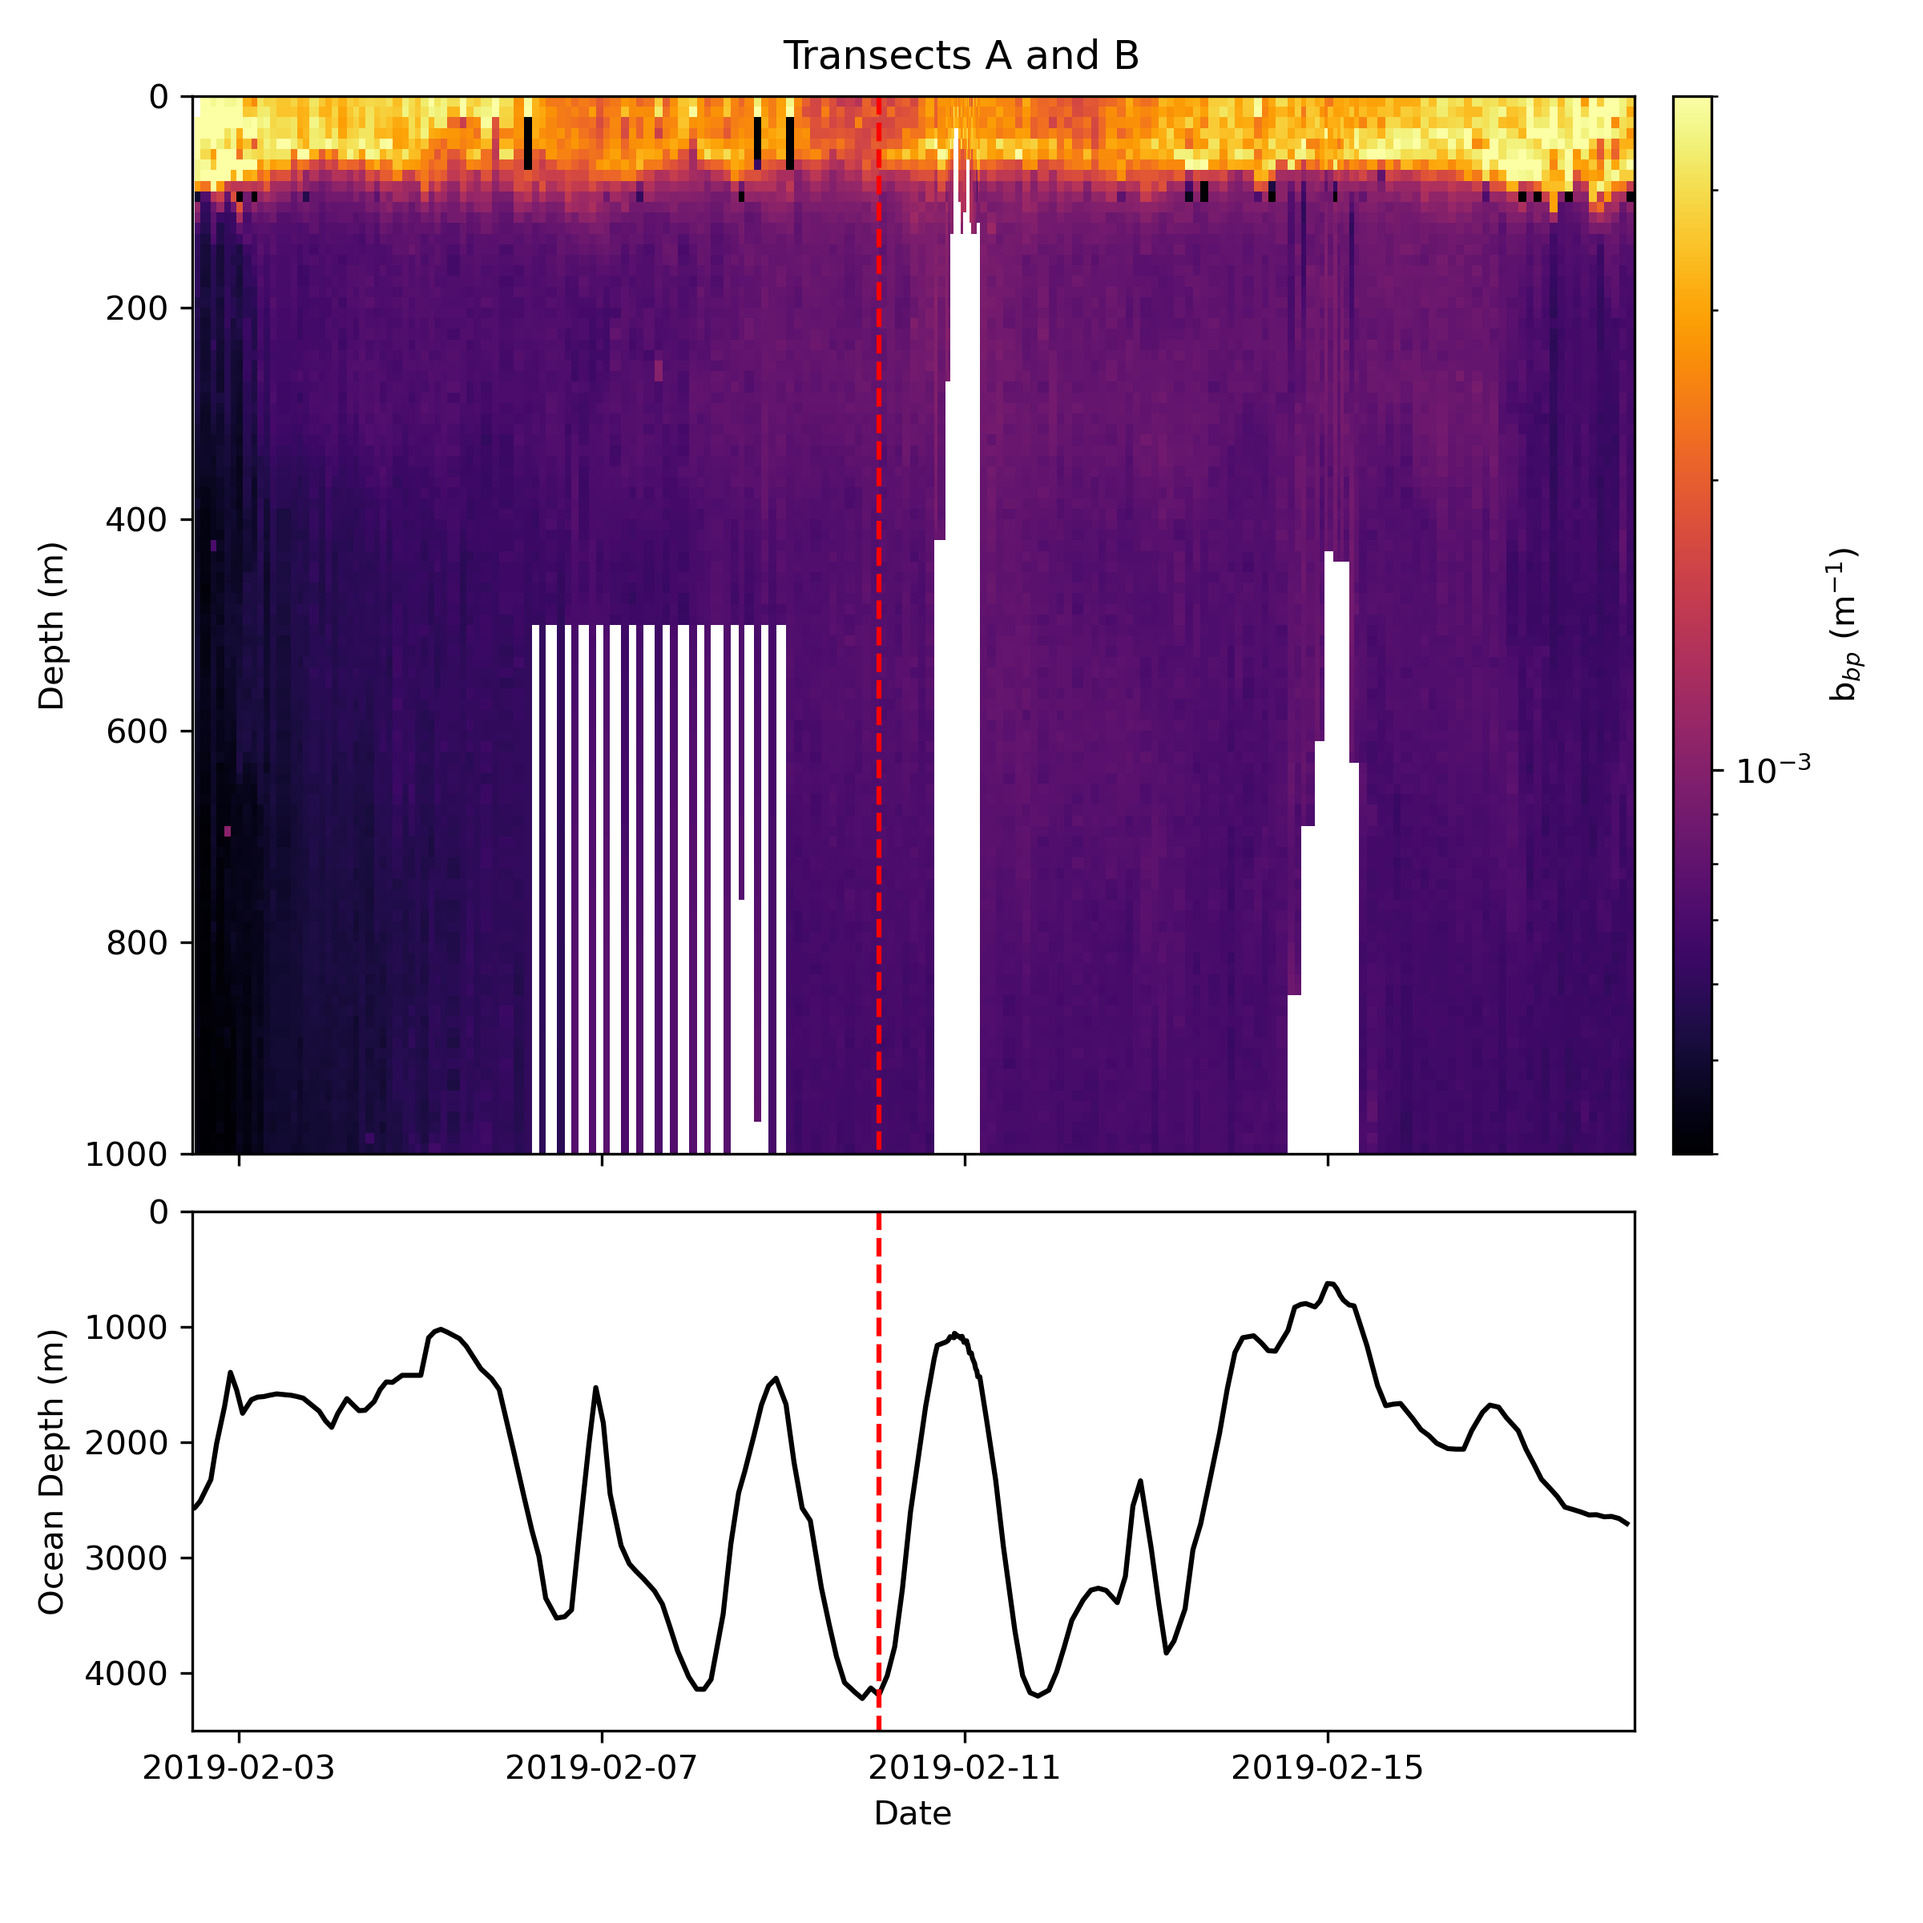
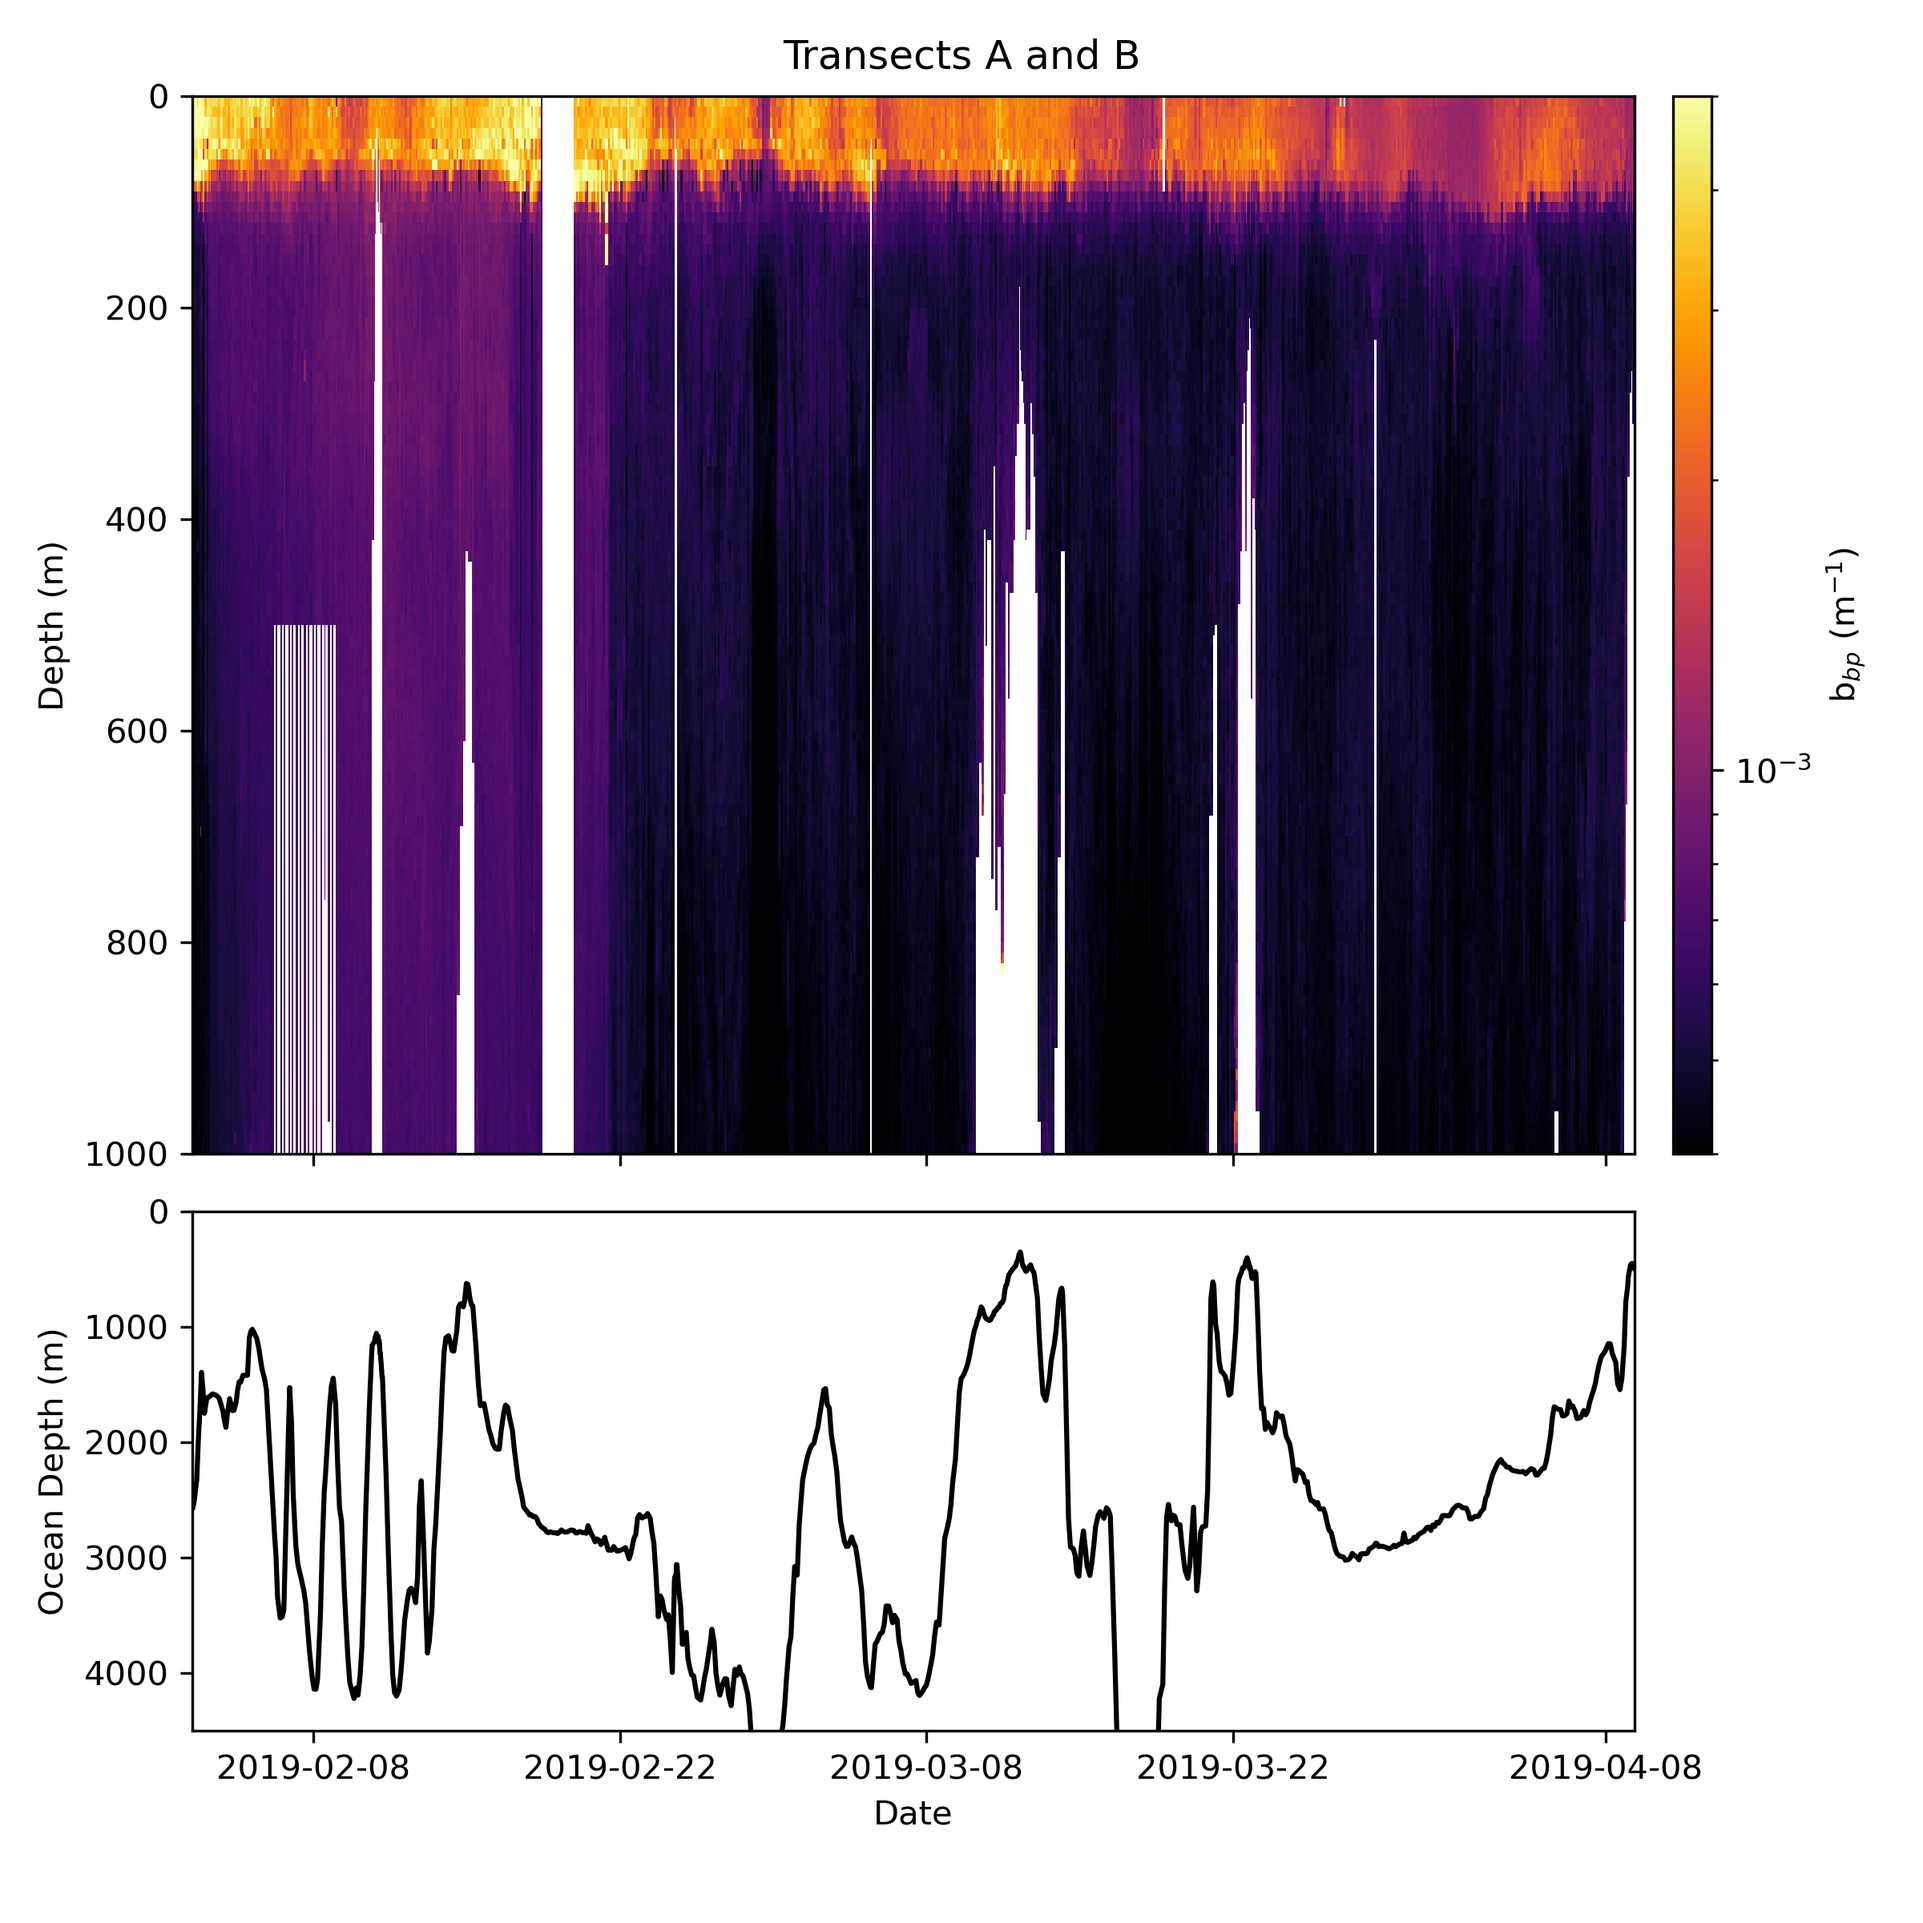
added debubbling

diff --git a/Louis/code/preprocessing/bbp/bubble_correction.py b/Louis/code/preprocessing/bbp/bubble_correction.py
@@ -2,6 +2,7 @@ import matplotlib.pyplot as plt
 import numpy as np
 import pandas as pd
 from scipy.stats import linregress
+from scipy.optimize import curve_fit
 import warnings
 warnings.simplefilter("ignore", category=RuntimeWarning)
 
@@ -11,7 +12,15 @@ def bubble_correction(profiles:list) -> list:
     upcasts = [p for p in profiles if p.direction == "up"]
     upcast_data = [p.apply_binning_to_parameter("bbp_minimum_despiked", 1, 1000) for p in upcasts]
     upcast_times_dict = {p.start_time : i for i, p in enumerate(upcasts)}
+    ylocs = [0, 10, 20, 30, 50, 100, 999]
     
+    def piecewise_function(xs, *yvals):
+        section = np.zeros_like(xs)
+        for i, xlim in enumerate(ylocs[:-1]):
+            section = section + np.asarray([yvals[i] + (yvals[i+1] - yvals[i]) * (x - xlim) / (ylocs[i+1] - xlim) if (x >= xlim) and (x < ylocs[i+1]) else 0 for x in xs])
+
+        return section
+
     for i, downcast in enumerate(downcasts):
         st = downcast.start_time
         relative_times = {abs(st - t): i for t, i in upcast_times_dict.items()}
@@ -22,7 +31,6 @@ def bubble_correction(profiles:list) -> list:
         mean_of_closests_upcasts = np.nanmean(closest_upcasts_data, axis=0)
         
         
-        
         downcast_data = np.asarray(downcast.apply_binning_to_parameter("bbp_minimum_despiked", 1, 1000))
         downcast_data = np.nan_to_num(downcast_data, nan=0)
                
@@ -30,42 +38,55 @@ def bubble_correction(profiles:list) -> list:
         difference = (downcast_data - mean_of_closests_upcasts)
         difference = np.nan_to_num(difference, nan=0)
         
-        slope1, intercept1 = linregress(np.arange(100, 1000), difference[100:1000])[:2] # main trend 
-        slope2, intercept2 = linregress(np.arange(10, 100), difference[10:100])[:2] # top 100m trend
-        slope3, intercept3 = linregress(np.arange(10), difference[:10])[:2] # top 10m trend
-        if not( np.isnan(slope1) or np.isnan(slope2) or np.isnan(slope3)):
+        d2 = np.maximum(difference, 0)
 
-            adj1 = slope1 * np.arange(1000) + intercept1
-            adj2 = slope2 * np.arange(100) + intercept2
-            adj3 = slope3 * np.arange(10) + intercept3
-            adj3 = np.maximum(adj3, adj2[:10]) # remove negative values
-            adj2 = np.maximum(adj2, adj1[:100])
-            adjustment = np.concatenate([adj3, adj2[10:], adj1[100:]])
-            adjustment = np.maximum(adjustment, 0)
+        popt, pcov = curve_fit(piecewise_function, np.arange(1000), difference, p0=[d2[i] for i in ylocs], bounds=(0, np.inf))
+        adjustment_test = piecewise_function(np.arange(1000), *popt)
+        profiles[int(downcast.index - 1)].data["bbp_debubbled"] = downcast.data["bbp_minimum_despiked"] - np.interp(downcast.data["depth"], np.arange(1000), adjustment_test)
         
-
-            new_downcast_data = downcast_data - adjustment
-            profiles[int(downcast.index - 1)].data["bbp_debubbled"] = downcast.data["bbp_minimum_despiked"] - np.interp(downcast.data["depth"], np.arange(1000), adjustment)
-
-        # if downcast.index in [59.0, 61.0]:
-        #     print("Slope1:", slope1)
-        #     print("Slope2:", slope2)
-        #     print("Slope3:", slope3)
-        #     # plt.plot(profiles[int(downcast.index - 1)].data["bbp_debubbled"], color="red")
-        #     # plt.plot(downcast.data["bbp_minimum_despiked"], color="blue")
-        #     # plt.show()
-        #     plt.plot(new_downcast_data, color="black")
-        #     plt.plot(downcast_data, color="green")
-        #     plt.plot(adjustment, color="red")
-        #     plt.plot(mean_of_closests_upcasts, color="blue")
-        #     plt.plot(difference, color="orange")
-        #     #plt.plot(slope1 * np.arange(500) + intercept1, color="orange")
-        #     #plt.plot(slope2 * np.arange(50) + intercept2, color="purple")
-        #     #plt.plot(slope3 * np.arange(5) + intercept3, color="limegreen")
-        #     plt.show()
 
     for p in profiles:
         if "bbp_debubbled" not in p.data.columns:
             p.data["bbp_debubbled"] = p.data["bbp_minimum_despiked"]
 
     return profiles
+        
+        # OLD METHOD
+        # slope1, intercept1 = linregress(np.arange(100, 1000), difference[100:1000])[:2] # main trend 
+        # slope2, intercept2 = linregress(np.arange(10, 100), difference[10:100])[:2] # top 100m trend
+        # slope3, intercept3 = linregress(np.arange(10), difference[:10])[:2] # top 10m trend
+        # if not( np.isnan(slope1) or np.isnan(slope2) or np.isnan(slope3)):
+
+        #     adj1 = slope1 * np.arange(1000) + intercept1
+        #     adj2 = slope2 * np.arange(100) + intercept2
+        #     adj3 = slope3 * np.arange(10) + intercept3
+        #     adj3 = np.maximum(adj3, adj2[:10]) # remove negative values
+        #     adj2 = np.maximum(adj2, adj1[:100])
+        #     adjustment = np.concatenate([adj3, adj2[10:], adj1[100:]])
+        #     adjustment = np.maximum(adjustment, 0)
+        
+
+        #     new_downcast_data = downcast_data - adjustment
+
+
+
+
+        # if downcast.index in [49.0, 61.0]:
+        #     print("Slope1:", slope1)
+        #     print("Slope2:", slope2)
+        #     print("Slope3:", slope3)
+        #     # plt.plot(profiles[int(downcast.index - 1)].data["bbp_debubbled"], color="red")
+        #     # plt.plot(downcast.data["bbp_minimum_despiked"], color="blue")
+        #     # plt.show()
+        #     #plt.plot(new_downcast_data, color="black")
+            
+        #     plt.plot(downcast_data, color="green")
+        #     plt.plot(adjustment, color="red")
+        #     plt.plot(mean_of_closests_upcasts, color="blue")
+        #     plt.plot(difference, color="orange")
+        #     plt.plot(adjustment_test, color="purple")
+        #     #plt.plot(slope1 * np.arange(500) + intercept1, color="orange")
+        #     #plt.plot(slope2 * np.arange(50) + intercept2, color="purple")
+        #     #plt.plot(slope3 * np.arange(5) + intercept3, color="limegreen")
+        #     plt.show()
+

diff --git a/Louis/code/bbp_trends.py b/Louis/code/bbp_trends.py
@@ -12,29 +12,42 @@ warnings.filterwarnings("ignore",category=MatplotlibDeprecationWarning)
 
 
 transects, all_valid_profiles = import_split_and_make_transects(use_cache=True,
-                                                                use_downcasts=False,)
+                                                                use_downcasts=True,)
+profiles = all_valid_profiles[1:211]
+up = [p.data for p in profiles if p.direction == "up"]
+down  = [p.data for p in profiles if p.direction == "down"]
 
 
-tA = all_valid_profiles[2:47]
-tA.pop(5)
-tA = [p.data for p in tA]
 
-tB = [p.data for p in all_valid_profiles[64:105]]
-2
+up = pd.concat(up).dropna(subset=["bbp_minimum_despiked"])
+down = pd.concat(down).dropna(subset=["bbp_minimum_despiked"])
 
-tA = pd.concat(tA).dropna(subset=["bbp_minimum_spikes"])
-tB = pd.concat(tB).dropna(subset=["bbp_minimum_spikes"])
+up["depth"] = up["depth"].round(0)
+down["depth"] = down["depth"].round(0)
 
-tA["depth"] = tA["depth"].round(0)
-tB["depth"] = tB["depth"].round(0)
+up_original = up.groupby("depth")["bbp_minimum_despiked"].mean()
+down_original = down.groupby("depth")["bbp_minimum_despiked"].mean()
+down_new = down.groupby("depth")["bbp_debubbled"].mean()
 
-tAspikes = tA.groupby("depth")["bbp_minimum_spikes"].mean()
-tBspikes = tB.groupby("depth")["bbp_minimum_spikes"].mean()
+old_diff = down_original - up_original
+new_diff = down_new - up_original
+old_diff.pop(0)
+old_diff.pop(1) # ignore top 1m (0 and 1m)
+new_diff.pop(0)
+new_diff.pop(1)
 
-tAsum = [sum(tAspikes[:i]) for i in range(len(tAspikes))]
-tBsum = [sum(tBspikes[:i]) for i in range(len(tBspikes))]
+old_avg = np.mean(old_diff)
+new_avg = np.mean(new_diff)
 
-plt.plot(tAsum, label="Transect A")
-plt.plot(tBsum, label="Transect B")
+old_avg_100 = np.mean(old_diff[:100])
+new_avg_100 = np.mean(new_diff[:100])
+
+
+plt.plot(old_diff, label="Original, mean = {:.2e}, top 100 mean: {:.2e}".format(old_avg, old_avg_100))
+plt.plot(new_diff, label='"debubbled", mean = {:.2e}, top 100 mean: {:.2e}'.format(new_avg, new_avg_100))
+plt.xlabel("Depth (m)")
+plt.ylabel(r"$\Delta b_{bp}$ ($m^{-1}$)")
+plt.title("Difference between down and up casts")
+plt.savefig("Louis/outputs/bbp_diff.png", dpi=300)
 plt.legend()
 plt.show()

diff --git a/Louis/code/bathymetry.py b/Louis/code/bathymetry.py
@@ -9,10 +9,15 @@ transects, all_valid_profiles = import_split_and_make_transects(use_cache=True,
                                                                 use_downcasts=True,)
 
 profiles = all_valid_profiles[1:211]
-
+profiles = all_valid_profiles[1:]
 #profiles = all_valid_profiles[36:65]
 
 #profiles = all_valid_profiles[2:47] + all_valid_profiles[64:105]
+# print(profiles[47].index)
+# plt.plot(profiles[47].data["depth"], profiles[47].data["bbp_debubbled"], color="red")
+# plt.plot(profiles[47].data["depth"], profiles[47].data["bbp_minimum_despiked"], color="blue")
+# plt.show()
+# profiles.pop(47)
 profiles.pop(14)
 profiles.pop(44)
 
@@ -40,7 +45,7 @@ my_norm = mpl.colors.LogNorm(vmin=0.0004, vmax=0.005, clip=True) # 0.0001, 10 fo
 
 pcm = new_binned_plot(profiles, ax[0], "bbp_debubbled", 10, 1000, cmap=my_cmap, norm=my_norm)
 ax[0].yaxis.set_major_formatter(lambda x, pos: int(abs(x)))
-ax[0].vlines(profiles[change_index].end_time, 0, -1000, color="red", linestyle="--")
+#ax[0].vlines(profiles[change_index].end_time, 0, -1000, color="red", linestyle="--")
 ax[0].set_ylim(-1000, 0)
 
 
@@ -64,7 +69,7 @@ ax[1].set_xlabel("Date")
 ax[1].set_ylabel("Ocean Depth (m)")
 ax[1].yaxis.set_major_formatter(lambda x, pos: int(abs(x)))
 ax[1].set_xticks(ax[1].get_xticks()[::2])
-ax[1].vlines(profiles[change_index].end_time, 0, -4500, color="red", linestyle="--")
+#ax[1].vlines(profiles[change_index].end_time, 0, -4500, color="red", linestyle="--")
 ax[1].set_ylim(-4500, 0)
 
 # AXIS 2
